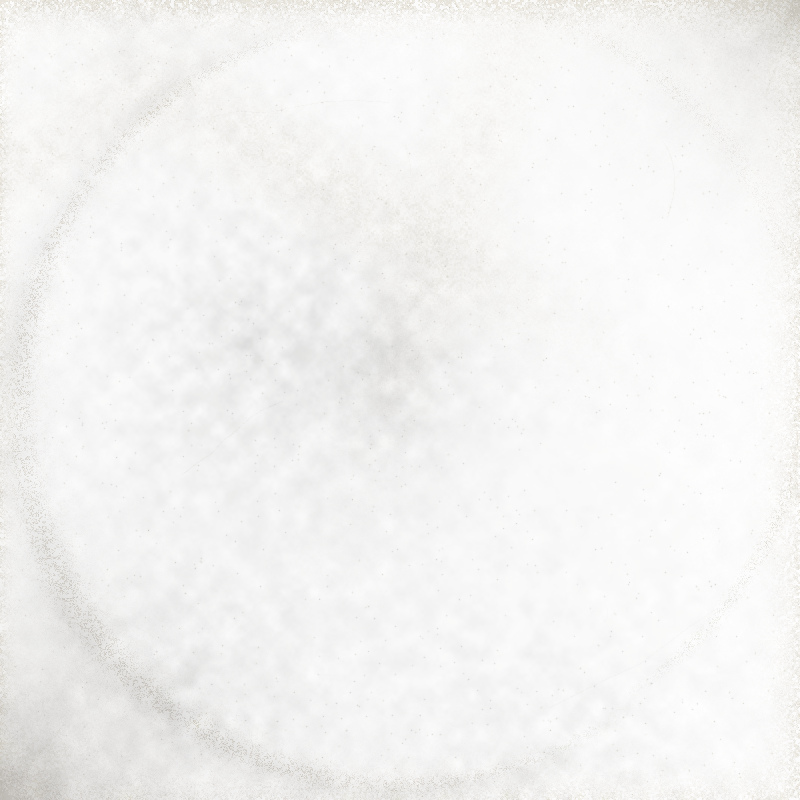
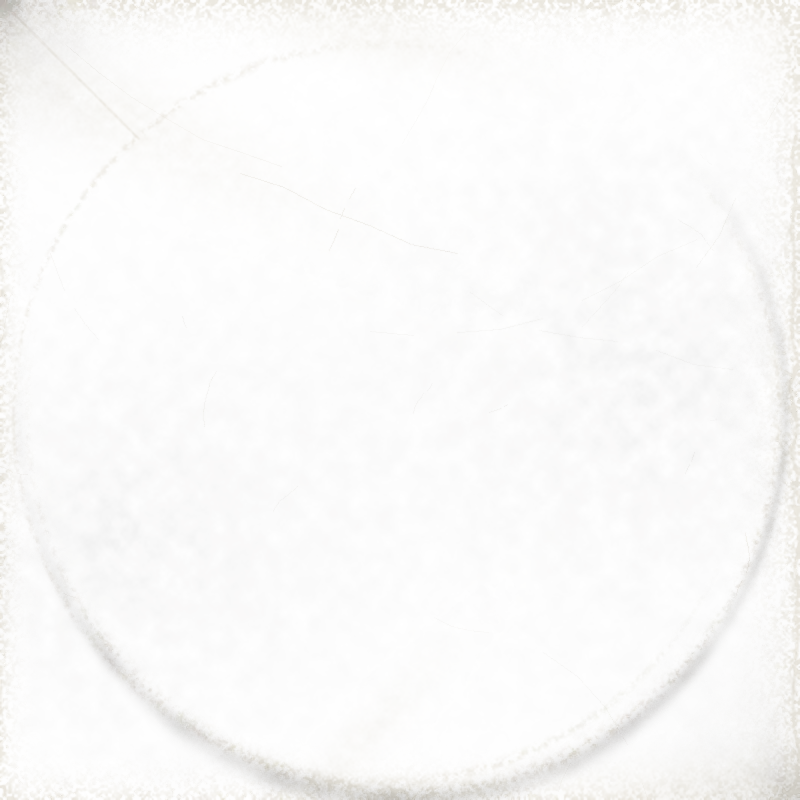
make-wear: photographic wear — no speckle, smooth mottled abrasion, scratches back to a middle ground
The fibre base is soft continuous noise instead of dots. Ring, edge and
corner wear are smooth mottled bands rather than grains. Hairlines return
at a middle count and strength, wandering and occasionally broken, with
the odd deeper one.

Claude-Session: https://claude.ai/code/session_01PbqXtG5SizYecEWh39Pkkj

diff --git a/scripts/make-wear.py b/scripts/make-wear.py
@@ -47,7 +47,7 @@ def make(slug, year=None, art=None):
     if art and (ROOT / art).exists():
         lum = float(np.asarray(Image.open(ROOT / art).convert('L').resize((64, 64))).mean() / 255)
     tone = .85 + .6 * lum
-    fibre = (0.35 + 0.65 * noise(2, 2, .6)) * (0.7 + 0.6 * (noise(2, 1) > .45))   # paper fibre: high frequency, partly binary
+    fibre = 0.55 + 0.45 * noise(3, 3, .55)                               # paper fibre: soft, continuous, like a photo of matte stock
     light = np.zeros((S, S), np.float32); dark = np.zeros((S, S), np.float32)
 
     # Ring wear: the disc's edge abrading the print. Never a compass circle: the radius wobbles
@@ -71,14 +71,14 @@ def make(slug, year=None, art=None):
         rest = U(math.pi * .15, math.pi * .85) if P(.7) else U(0, 2 * math.pi)   # low on the sleeve, mostly
         lobe = .3 + .7 * (.5 + .5 * np.cos(ang - rest)) ** U(1, 2.5)
         cover = arc_cover(ang, int(U(1, 4)), rest) * (.3 + .7 * noise(50))
-        grain = (rng.random((S, S)) > U(.45, .62)).astype(np.float32) * (.5 + noise(6, 2))   # dots, not a line
-        ring = band * lobe * cover * grain * (noise(3, 2) > U(.2, .4))
-        light += ring * U(1.2, 1.8)
+        mottle = np.clip((noise(4, 3, .6) - U(.3, .42)) * 3.2, 0, 1)         # soft, uneven abrasion along the band
+        ring = band * lobe * cover * mottle
+        light += blur(ring, .6) * U(1.1, 1.6)
         dark += np.exp(-((r - R * 1.02) / (w * 2)) ** 2) * lobe * cover * (.3 + noise(40) * .6) * U(.1, .3)
         if P(.3):                                                        # a second, offset arc from an inner sleeve
             R2 = R0 * U(.92, .99); cx2, cy2 = cx + S * U(-.04, .04), cy + S * U(-.04, .04)
             r2 = np.hypot(xx - cx2, yy - cy2); ang2 = np.arctan2(yy - cy2, xx - cx2)
-            light += np.exp(-((r2 - R2) / (w * .8)) ** 2) * arc_cover(ang2, int(U(1, 3)), U(0, 6.28)) * (rng.random((S, S)) > .55) * (.3 + noise(26) * .7) * (noise(3, 2) > .35) * U(.5, 1.0)
+            light += blur(np.exp(-((r2 - R2) / (w * .8)) ** 2) * arc_cover(ang2, int(U(1, 3)), U(0, 6.28)) * np.clip((noise(4, 3, .6) - .38) * 3, 0, 1), .6) * U(.5, .9)
         if P(.35):                                                       # faint spindle/label arc
             light += np.exp(-((r - S * U(.15, .19)) / (S * .01)) ** 2) * arc_cover(ang, 1, U(0, 6.28)) * noise(24) * U(.15, .35)
 
@@ -88,16 +88,16 @@ def make(slug, year=None, art=None):
     edge = np.zeros_like(light)
     for d, wt in zip([dl, dr_, dt, db], wts):
         edge += np.exp(-d / (S * U(.006, .02))) * wt
-    edge = edge * (.4 + noise(12) * 1.1) * (noise(2, 2) > U(.3, .5)) * (.5 + .5 * (rng.random((S, S)) > .4))
-    light += edge * U(1.0, 1.5)
+    edge = edge * (.4 + noise(12) * 1.1) * np.clip((noise(3, 3, .6) - U(.3, .42)) * 3, 0, 1)
+    light += blur(edge, .5) * U(1.0, 1.5)
 
     # Corners: blunted, with creases fanning out of the worst ones.
     corners = [(0, 0), (S, 0), (0, S), (S, S)]
     for (px, py) in corners:
         if P(.7):
             rad = S * U(.03, .09); k = U(.4, 1.2)
-            c = np.exp(-np.hypot(xx - px, yy - py) / rad) * (.5 + noise(16) * .9) * k
-            light += blur(c, 1.0)
+            c = np.exp(-np.hypot(xx - px, yy - py) / rad) * (.5 + noise(16) * .9) * np.clip((noise(3, 3, .6) - .3) * 2.5, 0, 1) * k
+            light += blur(c, .8)
             dark += np.exp(-np.hypot(xx - px, yy - py) / (rad * 1.6)) * (.4 + noise(22) * .6) * k * .35
             if P(.45):
                 im = Image.new('L', (S, S), 0); d = ImageDraw.Draw(im)
@@ -123,9 +123,9 @@ def make(slug, year=None, art=None):
         light += np.exp(-((ux / Lx) ** 2 + (uy / Ly) ** 2)) * noise(8) * U(.15, .45)
     # Hairlines
     im = Image.new('L', (S, S), 0); d = ImageDraw.Draw(im)
-    for _ in range(int(U(1.5, 17) * life)):
-        L = S * math.exp(U(math.log(.02), math.log(.3)))                     # log-spread: most short, a few long
-        a = U(0, math.pi); x, y = U(0, S), U(0, S); pts = [(x, y)]; v = int(U(28, 110))
+    for _ in range(int(U(4, 30) * life)):
+        L = S * math.exp(U(math.log(.02), math.log(.35)))                    # log-spread: most short, a few long
+        a = U(0, math.pi); x, y = U(0, S), U(0, S); pts = [(x, y)]; v = int(U(40, 150)) if P(.85) else int(U(150, 220))
         for _k in range(int(U(3, 9))):                                       # wander: a slight change of heading per segment
             a += U(-.25, .25); seg = L / 6; x += math.cos(a) * seg; y += math.sin(a) * seg; pts.append((x, y))
             if P(.18): pts.append(None)                                      # a break in the line
@@ -136,8 +136,6 @@ def make(slug, year=None, art=None):
                 run = []
             else: run.append(q)
     light += blur(np.asarray(im).astype(np.float32) / 255, .4) * .5
-    # Speckle
-    light += blur((rng.random((S, S)) > 1 - .002 * life).astype(np.float32), .5) * 2
 
     # Grime: soft clouds only. No spots.
     for _ in range(int(U(2, 6))):
